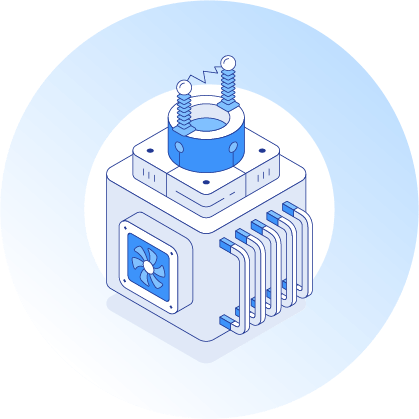
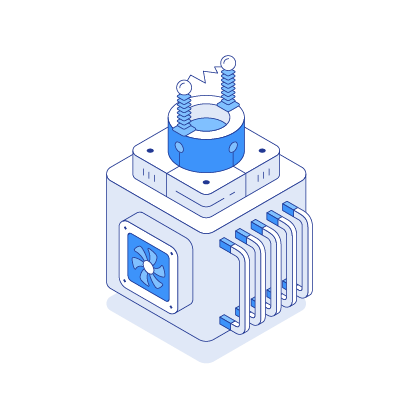
图片悬浮

Changed region(s): [[0.0621, 0.0, 1.0, 0.9308]]

diff --git a/pingGaoWebDevelop/src/views/homePage/homePage-2.vue b/pingGaoWebDevelop/src/views/homePage/homePage-2.vue
@@ -160,7 +160,9 @@ onUnmounted(() => {
       </div>
     </div>
     <div class="company_introduction">
-      <div class="bg_img"><img src="@/assets/imgs/_10_homePageImgs/company-introduction.png" alt=""></div>
+      <div class="bg_img">
+        <img src="@/assets/imgs/_10_homePageImgs/company-introduction.png" alt="" />
+      </div>
       <div class="introduction_title">赋能智慧电气 创引绿色能源</div>
       <div class="introduction_small_title">公司介绍</div>
       <div class="introduction_content">
@@ -283,6 +285,27 @@ onUnmounted(() => {
   z-index: 10;
   position: relative;
 }
+
+.product_topImg:before {
+  content: "";
+  position: absolute;
+  top: 0;
+  left: 0;
+  width: 100%;
+  height: 100%;
+  background-size: cover;
+  background-position: center;
+  transition: opacity 0.3s ease; /* 设置过渡效果 */
+  opacity: 0.3; /* 默认透明 */
+  z-index: -1; /* 确保在图片下方 */
+}
+
+.product_topImg:hover:before {
+  background-image: url("src/assets/imgs/_10_homePageImgs/circle.png"); /* 悬停时的背景图片 */
+  opacity: 1; /* 显示背景图片 */
+}
+
+
 .header {
   height: 68vh;
   // min-width: 1920px;
@@ -404,6 +427,7 @@ onUnmounted(() => {
   width: 33%;
 }
 .product_topImg {
+  position: relative;
   width: 420px;
   height: 420px;
   margin: auto;
@@ -469,7 +493,7 @@ onUnmounted(() => {
   background-size: cover; /* 实现图片等比例缩放 */
   background-repeat: no-repeat;
 }
-.company_introduction .bg_img{
+.company_introduction .bg_img {
   top: 0;
   left: 0;
   position: absolute;
@@ -477,7 +501,7 @@ onUnmounted(() => {
   height: 1140px;
   z-index: -100;
 }
-.company_introduction .bg_img img{
+.company_introduction .bg_img img {
   width: 100%;
   height: 1140px;
 }